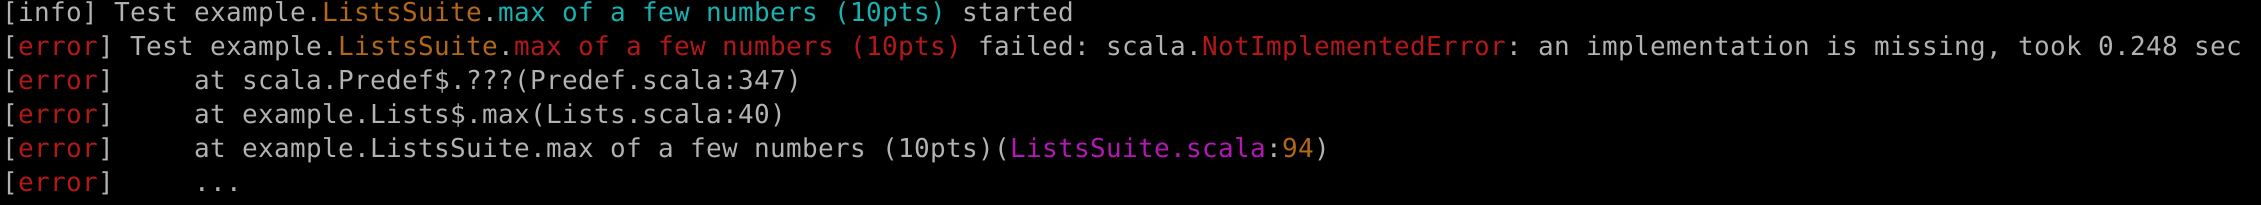
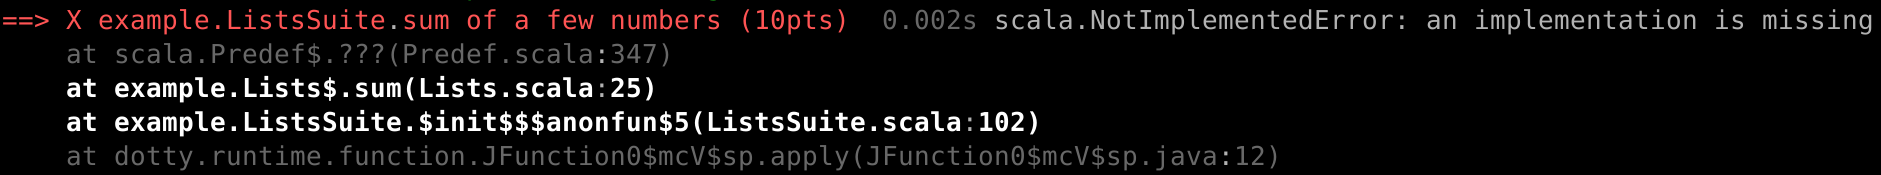
Update example lab for metals

Changed region(s): [[0.0, 0.0, 1.0, 0.6], [0.0, 0.6286, 0.5859, 0.7714], [0.0, 0.8286, 0.6784, 0.9714]]

diff --git a/labs/example-lab.md b/labs/example-lab.md
@@ -54,109 +54,106 @@ commands. You can compile your project using `compile` and run the tests with
 `test` (this automatically compiles your code if needed to). Note that if
 compilation fails, no tests will be run. The first time you'll run `test` in an
 lab you should see many errors: that's normal, your job is to make the
-tests pass! To do this, it's useful to understand in details what the test
-output means, here's an example:
+tests pass! But first, let's look at a failed test in detail:
 
 ![](images/sbt-test-error.png)
 
 This tells us several things:
 
-- There's a test named `max of a few numbers (10pts)` in the class `ListsSuite` in the package `example`
-- The test failed with an exception: `scala.NotImplementedError: an implementation is missing`. This is followed by a stack trace showing where the exception happened.
-- This exception was thrown from the method `scala.Predef$.???` in the file `Predef.scala` at line 284.
-- This method was called from `example.Lists$.max` in the file `Lists.scala` at line 40.
-- ... which was itself called from the method `example.ListsSuite.max of a few
-  numbers` in the file `ListsSuite.scala` at line 83.
+- There's a test named `sum of a few numbers (10pts)` in the class `ListsSuite` in the package `example`
+- The test failed (that's why it's in red and starts with `==> X`) with an exception: `NotImplementedError`.
+- This exception was thrown from the method `???` in `scala.Predef` in the file
+  `Predef.scala`, this file is not part of our project (that's why it's in
+  grey), to find the actual error in our code we have to look at where this
+  method was called from.
+- This method was called from method `max` in `example.Lists` in the file
+  `Lists.scala` at line 40, this is where the bug is!
+- It's also important to see where in our test this was called from, here
+  it's line 102 of `ListsSuite.scala`.
 
-It's now time to look at some code: the next section will show you how to start and navigate using the IDE.
+Time to go fix that bug! The next section will show you how to do that using the IDE.
 
 ## Part 3: Using the IDE
 
 ### Startup
 
-This course is run with an experimental version of Scala called Dotty that will become Scala 3 in the future. Because it's so new, most IDEs like IntelliJ and Eclipse are unlikely to work correctly with it. Thankfully we've developed our own IDE support. It's designed to work with any text editor but we currently only support VSCode. If you've followed the [Tools Setup](https://lampepfl-courses.github.io/moocs/tools-setup/Tools%20Setup.html) page you should have VSCode installed by now, but don't start it just yet, instead run the following command from `sbt`:
+To start Code, run the following in the project directory (the same directory where you
+previously ran `sbt`), it's important to run Code in the correct directory or
+it won't be able to import your project:
+
 ```shell
-launchIDE
+code .
 ```
 
-This will download the Dotty extension for VSCode and set everything up. You will need to do this for every lab, and we recommend always using this command to start the IDE.
+The first time the IDE starts, it will take some time to download more
+components, eventually it will ask you to import the build, please click "Import
+build":
 
-The first time the IDE starts, it will take some time to download more components, as displayed in the bottom left:
+![](images/metals-import.png)
 
-![](images/downloading-dls.png)
-
-#### Data collection
-
-Fixing bugs in the compiler and the IDE is much easier when we have all the information needed to reproduce them. To help us achieve that, we've added an optional data collection mechanism in the IDE extension, when you start an lab, you'll see the following pop-up:
-![](images/telemetry-allow.png)
-
-You are free to either allow or deny the data collection, but we would appreciate it if you clicked "Allow". If you do, you'll contribute to making Scala better! If you change your mind, you can turn on or off the data collection at any time by clicking on the "Scala telemetry" button on the bottom-left of the IDE window:
-
-![](images/telemetry-status.png)
-
+You'll need to wait a bit for the import to finish, if an error appears try
+closing and restarting Code in the same way we started it above.
 
 ### Usage
 
-It's now time to dig in! Earlier we talked about a failing test, the stack trace told us that it was failing on line 83 of the file ListsSuite.scala, so let's open that file:
+It's now time to dig in! Earlier we talked about a failing test, the stack trace
+told us that it was failing on line 102 of the file `ListsSuite.scala`, so let's open that file:
 
 ![](images/open-test.png)
 
-Here's the source code of the test method:
+Here's the source code of the test:
 
 ![](images/test-source.png)
 
-This looks like a regular method except for a few things:
+The first line gives a name to the test, the second line runs
+`sum(List(1, 2, 0))` and tests that it equals 3, but in our case we never got to
+this point because an exception was thrown, recall that the second line
+of the stack trace was:
 
-- It starts with `@Test`, this is an annotation that lets JUnit (the testing framework we use) know that this is a test method.
-- The name of the method starts and ends with backticks (\`): this is what allows us to put spaces in the method name. Normally, names defined in Scala cannot contain special characters such as spaces or dashes, but any character is allowed as long as backticks are put around the name (even emojis 🔥!). We've taken advantage of this in the tests we define to give them nicer names: `max of a few numbers failed` is easier to read than `maxOfAFewNumbers failed`, but this is just a convention: if you define your own tests you're free to name them however you want.
-
-Recall that the second line of the stack trace was:
 ```scala
-at example.Lists$.max(Lists.scala:40)
+at example.Lists$.sum(Lists.scala:25)
 ```
 
-This tells us that the crash happened when calling `max`, we can hover with our mouse over the call to `max` in the test method to get more information on it:
+This tells us that the crash happened when calling `sum`, we can hover with our mouse over the call to `sum` in the test method to get more information on it:
 
 ![](images/hover.png)
 
 
 The hover is split into two parts: the first part is:
 ```scala
-(xs: List[Int]): Int
+def sum(xs: List[Int]): Int
 ```
-This means that `max` is a method that takes a `List` of `Int` as argument and
-returns an `Int`. The second part is the documentation of `max`. We can jump to
-the definition of max by `Ctrl+click` (`Cmd+click` on Mac) or by `right click ->
-Go to Definition` (*note: this is currently broken under Windows, you'll have to
-manually open `src/main/scala/example/Lists.scala`*). Once there we see:
+This means that `sum` is a method that takes a `List` of `Int` as argument and
+returns an `Int`. The second part is the documentation of `sum`. We can jump to
+the definition of sum by `Ctrl+click` (`Cmd+click` on Mac) or by `right click ->
+Go to Definition`. Once there we see:
 
-![](images/max-def.png)
+![](images/sum-def.png)
 
-Now we know why the test failed: `max` calls `???`, which is a method defined in the Scala standard library that simply crashes your program: whenever you see it in an lab it means that this is something you need to replace by your own implementation.
+Now we know why the test failed: `sum` calls `???`, which is a method defined in
+the Scala standard library that simply crashes your program: whenever you see it
+in a lab it means that this is something you need to replace by your own implementation.
 
 You now know enough to be able to work with the IDE, here are some additional tips:
 
 - When you press `Enter` to make a new line, the IDE will automatically indent the
   line if needed (for example, if the last word on the previous line was
   `then`), however it will never unindent code for you (for example, when
-  writing `else`). You can always indent code manually by pressing `Tab` and
-  unindent it by pressing `Shift + Tab`.
+  writing `else`). You can indent code manually by pressing `Tab` and
+  unindent it by pressing `Backspace` or `Shift + Tab`.
 - When working on an lab,  you are free to create as many methods, classes and objects as you want. **But you shouldn't change the name of existing methods, classes and objects, because that may break the automated grading system, this is important!**.
-- You can see a list of all warnings and errors reported by the compiler by clicking on ![](images/warnings-errors.png) at the bottom left of VSCode.
+- You can see a list of all warnings and errors reported by the compiler by clicking on ![](images/warnings-errors.png) at the bottom left of Code.
 - The IDE can show you on hover the documentation of classes, defs and vals defined in the current project but support for external project is currently missing. To compensate for this, you can consult the documentation online:
-  - The documentation for the Scala standard library is at [https://www.scala-lang.org/files/archive/api/2.13.1/](https://www.scala-lang.org/files/archive/api/2.13.1/)
-  - The documentation for the Java standard library is at [https://docs.oracle.com/en/java/javase/11/docs/api/index.html](https://docs.oracle.com/en/java/javase/11/docs/api/index.html)
-- You can customize Visual Studio Code as much as you want, including installing additional extensions, but please avoid installing other Scala-related extensions: they may conflict with the one we use for this course.
+  - The documentation for the Scala standard library is at [https://www.scala-lang.org/files/archive/api/2.13.3/](https://www.scala-lang.org/files/archive/api/2.13.3/)
+  - The documentation for the Java standard library is at [https://docs.oracle.com/en/java/javase/15/docs/api/index.html](https://docs.oracle.com/en/java/javase/15/docs/api/index.html)
+- You can customize Code as much as you want, including installing additional extensions, but please avoid installing other Scala-related extensions: they may conflict with the one we use for this course.
 - While working on your lab, you will regularly want to go back to the sbt console to run the tests. You could simply run the command `test` every time, but you can take advantage of the watch mode instead: if a command is prefixed by `~`, sbt will watch the source directory for changes and re-run the command every time a file is saved. So a possible workflow is:
 
-    1. Start sbt
-    2. Run `launchIDE`
-    3. Once the IDE has started, go back to sbt and run `~test` (or run `~compile` if you don't want to look at the tests)
+    1. Start the IDE
+    2. Start sbt in the terminal (protip: you can start a terminal inside Code from the
+       menu: `Terminal -> New Terminal`)
+    3. Inside sbt, run `~test`
     4. Work in the IDE, and check the output of the sbt console from time to time
-
-- We're actively working on improving the IDE support using Visual Studio Code
-  and interested in hearing your ideas and suggestions. Feel free to share your
-  feedback (both good and bad) with us using Gitlab issues!
 
 ## Part 4: Running your code
 
@@ -216,13 +213,14 @@ In order to exit the Scala REPL and go back to sbt, type `Ctrl+D`.
 A *worksheet* is a file where every line of code written in the IDE is executed and its output displayed as a comment.
 
 #### Creating a worksheet
-Any file that ends in `.sc` is considered to be a worksheet by the IDE. Once VSCode is launched in a project, all you have to do is create a new file and save it (`Ctrl+N, Ctrl+S`) using any name as long as it ends in `.sc`.
+Any file that ends in `.worksheet.sc` is considered to be a worksheet by the IDE. Once Code is launched in a project, all you have to do is create a new file and save it (`Ctrl+N, Ctrl+S`) using any name as long as it ends in `.worksheet.sc`.
 
 #### Using the worksheet mode
 
-Inside this file, you can type any line of code you would type in the REPL. To run the worksheet, either press the "Run this worksheet" button at the top of the file, or save the file. Each line of code will be executed one by one and its output is shown in green on the right. If your code contains an infinite loop, the worksheet will never finish running by itself, but you can cancel it by clicking the same button used to run the worksheet at the top of the file.
-
-**IMPORTANT**: When you run a worksheet, you should have sbt open and either `~test` or `~compile` running as recommended in Part 3, otherwise changes to other files won't be reflected in the output of your worksheet.
+Inside this file, you can type any line of code you would type in the REPL. The
+worksheet will be automatically run when the code is saved and auto-save is
+enabled by default. Each line of code will be executed one by one and its output
+will be shown in green on the right.
 
 ## Part 5: Submitting your Solution
 
